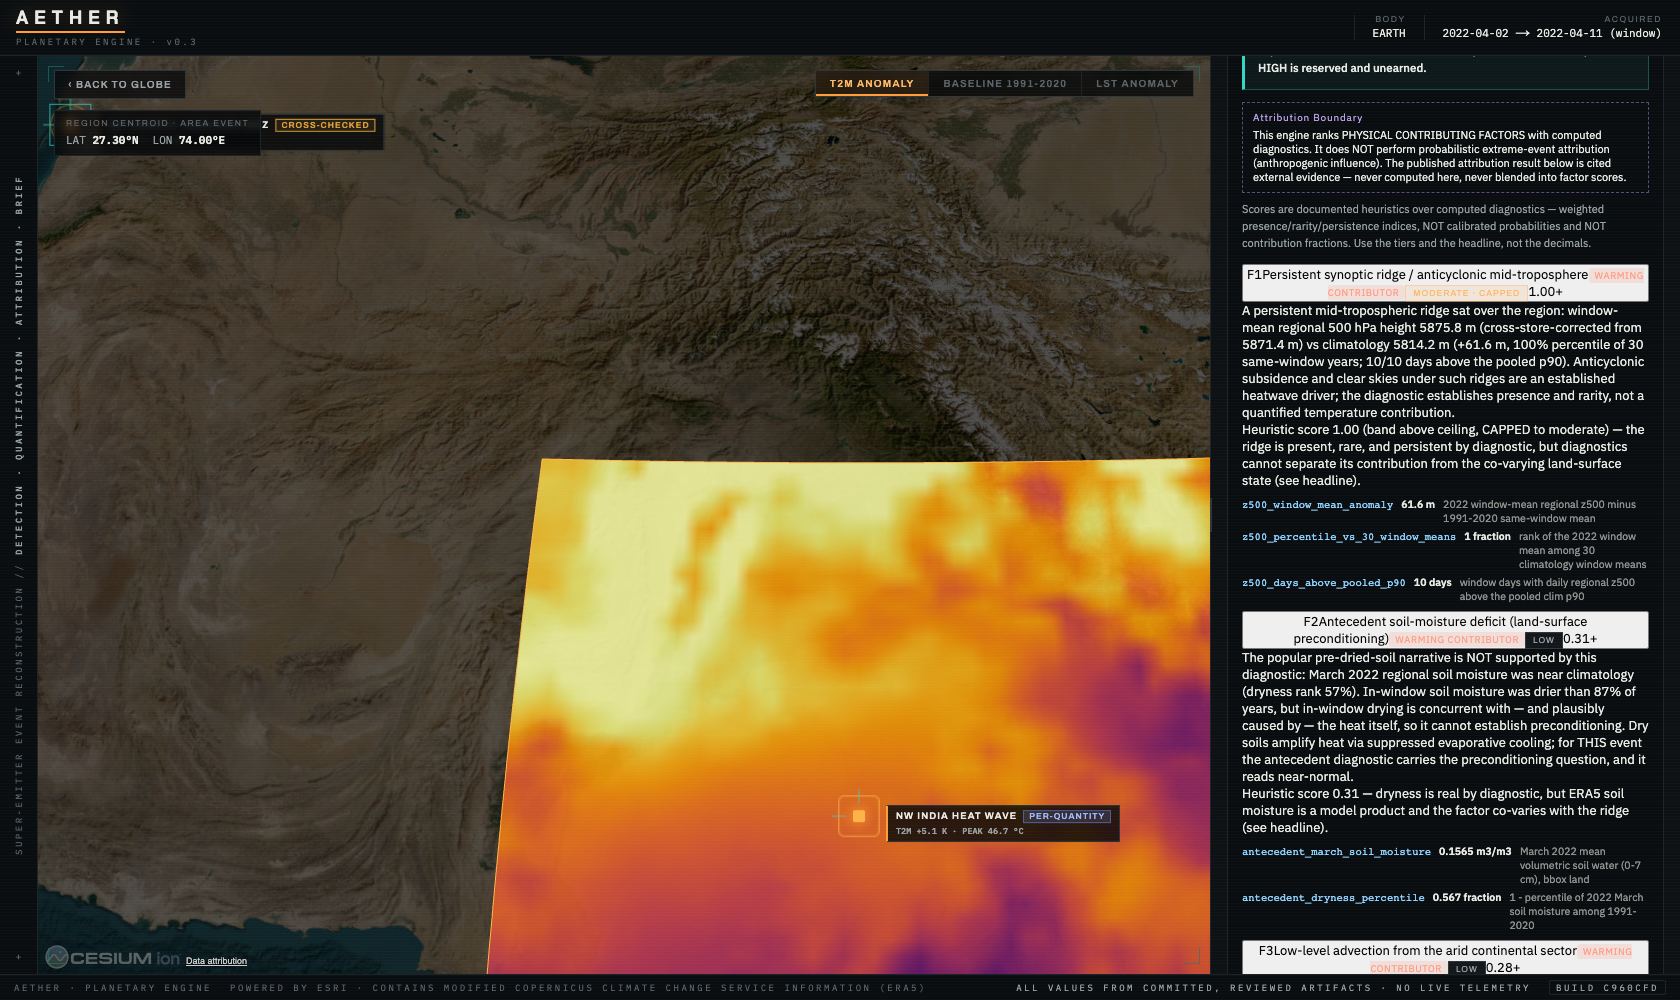
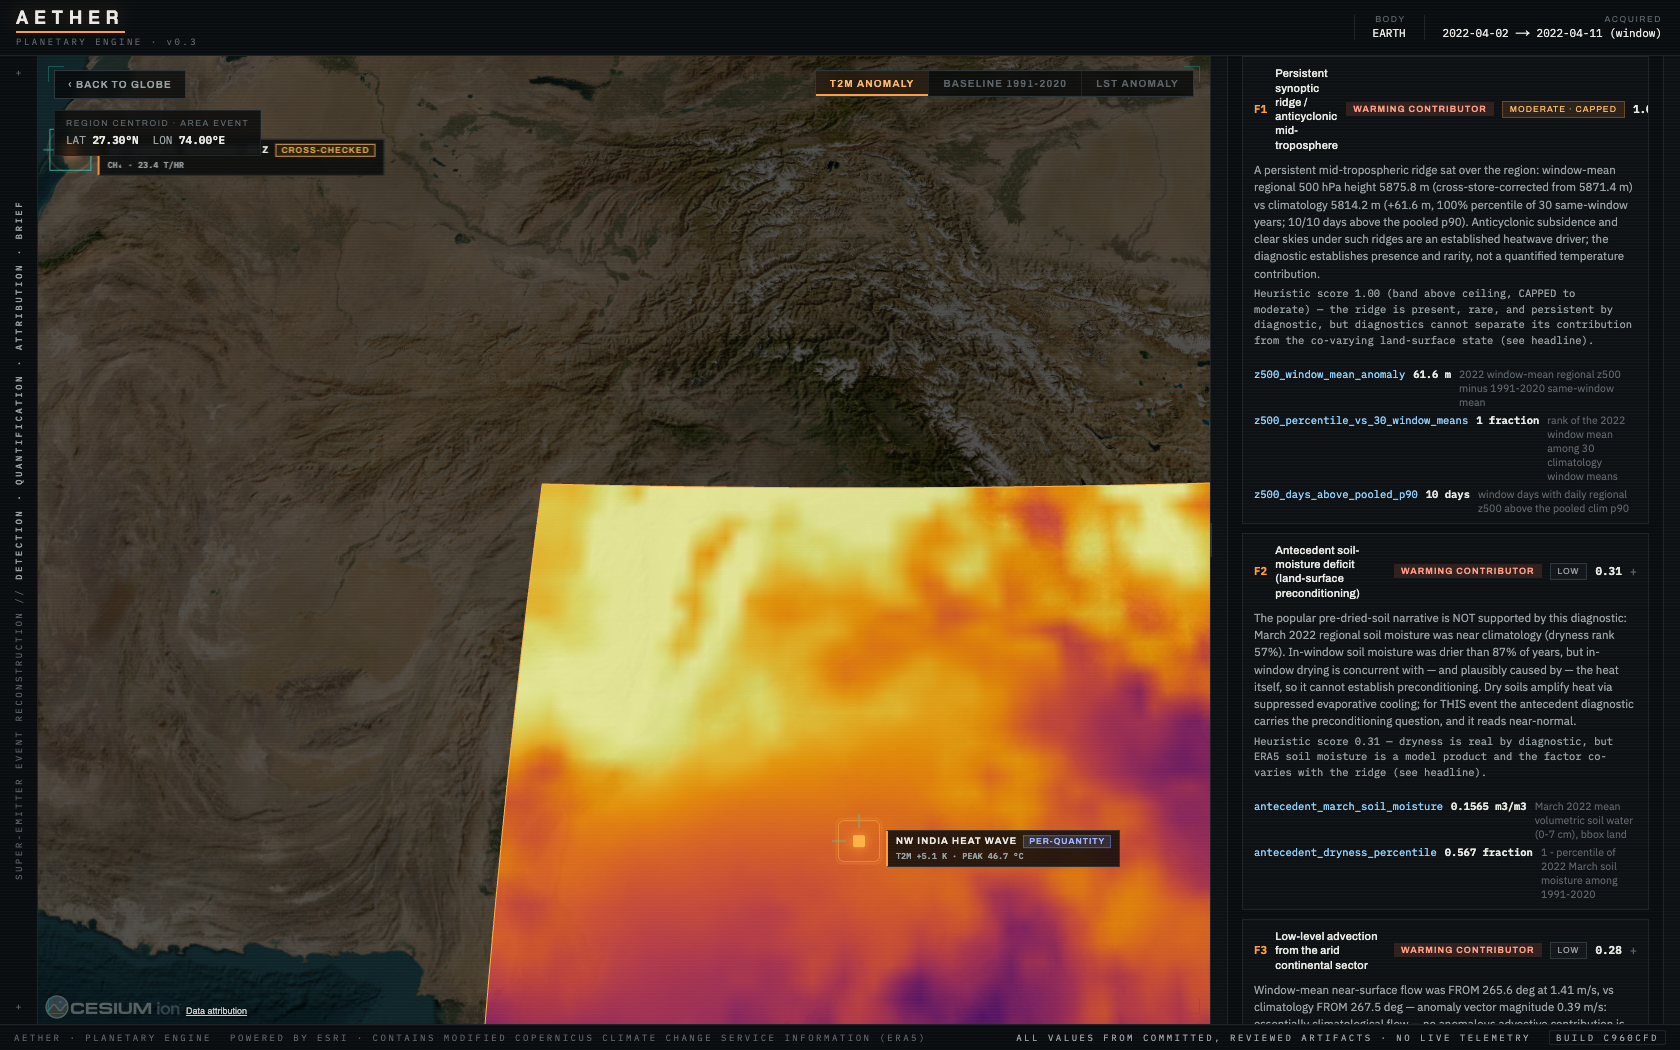
docs(reports): Stage C visual-fidelity fix report + re-shot themed panels
Diagnosis (mechanism + dev/prod finding: identical in both, NOT prod-only),
before/after in Chrome + WebKit, and the re-shot hosted factor panels
(09 replaced, 10 re-shot, 11 F4/F5 added). Shot-list criterion now includes
visual fidelity, not only caveat survival.

diff --git a/docs/reports/sprint10_stage_c_fix.md b/docs/reports/sprint10_stage_c_fix.md
@@ -1,0 +1,101 @@
+# Sprint 10 — Stage C out-of-band fix: heat factor-attribution visual regression
+
+**Date:** 2026-06-15 · **Scope:** web-only. API, committed artifacts, manifest, and every integrity
+guard untouched. **Commit:** `4c27e2c` (CI green, both jobs). **Deployed:** live on
+https://aether.arkaneworks.co (Vercel auto-redeploy; CSS chunk now carries the fix).
+
+## Diagnosed mechanism (root cause, not a guess)
+
+`FactorAttribution.tsx` (the heat factor cards F1–F5 + the cited-external block) renders its
+**card container, header `<button>`, factor name, claim, rationale, expanded body, sub-headings,
+and score components** through a `.hypo-*` / `.scomp` class family that **`globals.css` never
+defined** — only the `.hypo.counter-evidence` modifier existed. The accent classes it *does* use
+(`.role-chip`, `.attr-tier`, `.attr-boundary`, `.diag-*`, `.ext-attr*`, `.attr-headline`) **are**
+defined. So the styling split exactly along defined-vs-undefined lines:
+
+| Element | Class | Defined before? | Rendered |
+|---|---|---|---|
+| Factor header row | `.hypo-head` (a `<button>`) | **No** | native button: `background rgb(239,239,239)`, `color black`, `appearance auto`, 2px native border |
+| Factor name / claim / rationale / body / sub | `.hypo-name/.hypo-claim/.hypo-rationale/.hypo-body/.hypo-sub` | **No** | unstyled — wrong face/size, no card padding |
+| Card container | `.hypo` | only `.counter-evidence` | no border/bg/padding |
+| Score components | `.scomp`, `.scomp .k/.v` | **No** | unstyled |
+| Diagnostic keys | `.diag-name` | **Yes** (but `var(--mono)`, undefined → generic monospace) | cyan, but generic mono not IBM Plex Mono |
+| Role / tier pills | `.role-chip`, `.attr-tier` | **Yes** | correctly themed |
+| Cited-external | `.ext-attr*` | **Yes** | themed (the reviewer grouped it with the broken cards visually; its own rules were present) |
+
+That is precisely the reported symptom: the header is a light native button, the prose is
+unstyled, while the data-key spans and pills inside render correctly. The methane
+`SourceAttribution` looks right because it uses the **fully-defined `.attr-card*` family**; the heat
+component was authored by analogy but its renamed `.hypo-*` rules were never written (a half-finished
+Sprint 9 Stage D styling pass).
+
+## dev/prod branch — the "prod-only" hypothesis was WRONG
+
+The regression is **identical in dev and prod**, proven by computed style, not assumption:
+
+```
+.hypo-head  background-color  →  rgb(239, 239, 239)   in BOTH `pnpm dev` and `pnpm build && start`
+            color             →  rgb(0, 0, 0)         (native button; `font:inherit` doesn't reset color)
+            appearance        →  auto
+```
+
+There is no environment-specific mechanism: single global `globals.css` imported in `layout.tsx`,
+**no Tailwind, no CSS modules, no styled-jsx** — so nothing purges or scope-hashes a class, and the
+rules are simply absent in both builds. It went unseen because (a) the factor section is **heat-only**
+and deep in the inspector, and (b) every prior gate — including Stage C — checked **caveat presence**,
+not visual fidelity, so the light-grey buttons sat in-frame (Stage C shot 09) without being flagged.
+The case-sensitive-import / uncommitted-asset branch does not apply (no second stylesheet exists).
+
+## The fix (restyle only)
+
+CSS-only, `apps/web/src/app/globals.css` (+160 / −10). Added the missing `.hypo-*` and `.scomp`
+rules **mirroring the methane `.attr-card*` family exactly** (same design tokens: `--font-label`
+Archivo for labels, `--font-mono` IBM Plex Mono for data, `--font-sans` for prose, the amber/cyan
+duotone on `--bg-panel`/`--border`). Also corrected `.diag-name`'s `var(--mono)` (undefined → generic
+monospace) to `var(--font-mono)` (IBM Plex Mono), and harmonized `.role-chip` with the `.tier-badge`
+family (font-label, track-ui, flex-pinned). No `FactorAttribution.tsx` change; **no text touched**.
+
+**Hard constraint honored — every caveat verbatim, fully legible, no clamp/ellipsis/collapse:**
+- F1 confidence rationale: *"Heuristic score 1.00 (band above ceiling, CAPPED to moderate) — the
+  ridge is present, rare, and persistent by diagnostic, but diagnostics cannot separate its
+  contribution from the co-varying land-surface state (see headline)."* — rendered in full.
+- F5 counter-evidence card with its distinct cyan left-border and the negative-UHI reasoning — in full.
+- Cited-external: *"NOT computed by Aether · NOT in factor scores"* + *"…not part of any factor
+  score."* + the DOI — in full.
+- The attribution-boundary "out of scope" / "reserved and unearned" warnings — in full.
+
+## Verification (the new bar: visual fidelity, both engines)
+
+- **Computed styles after fix:** `.hypo-head` background `rgba(0,0,0,0)` (transparent — native box
+  gone) in Chrome and WebKit; prose IBM Plex Sans, rationale/data IBM Plex Mono, diagnostics cyan.
+- **Local prod build** (`pnpm build && start`, API → live Fly), full-resolution crops in **Chrome and
+  WebKit**: F1–F5 and cited-external match the theme of the 01/02/03/08 blocks.
+- **Suite green throughout:** `pytest` 373 passed / 6 skipped / 7 deselected; `ruff` clean; `tsc` clean.
+- **Hosted, after redeploy:** re-shot the panel on https://aether.arkaneworks.co.
+
+### Before / after (hosted, both browsers)
+
+`docs/reports/screenshots/sprint10_stage_c_fix/`:
+- `zoom_F1_before-hosted-chromium.png` / `...-webkit.png` — the bug in production (Chrome: light-grey
+  button header; WebKit: rank glued to the name, no card chrome).
+- `zoom_F1_after-hosted-chromium.png` / `...-webkit.png` — themed card: amber mono rank, Archivo name,
+  WARMING CONTRIBUTOR / MODERATE·CAPPED badges, Plex-Sans claim, Plex-Mono rationale, cyan diagnostics.
+- `zoom_ext_before-hosted-chromium.png` / `zoom_ext_after-hosted-chromium.png` — cited-external block.
+
+### Re-shot Stage C panels (hosted, themed) — visual-fidelity is now a shot-list criterion
+
+`docs/reports/screenshots/sprint10_stage_c/`:
+- `09_india_factor_attribution.png` — **replaced**, themed (F1/F2/F3 cards).
+- `10_india_cited_external_references.png` — **re-shot**, themed (cited-external purple block + references).
+- `11_india_factor_f4_f5.png` — **added**, F4 (severity-framing) + F5 (counter-evidence, cyan border).
+
+The Stage C shot-list criterion is hereby extended: a panel passes only if it both **survives
+deployment with caveats intact AND matches the design system** — not caveat survival alone.
+
+## SHA note
+
+The web is now at `4c27e2c`; the Fly API remains at `c960cfd` (this fix does not touch the API,
+its artifacts, or the manifest). The footer BUILD chip reads the **API** SHA (`c960cfd`) from
+`/api/version` — honest, since the artifact-serving API is genuinely unchanged. The human may
+realign by redeploying the API at the new SHA during Stage D (a no-op for artifacts — byte-identity
+is guard-guaranteed); it is not required by this fix.